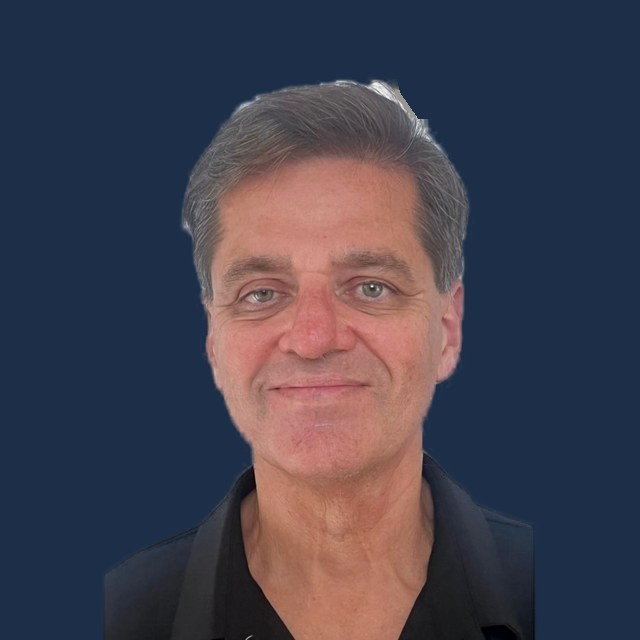
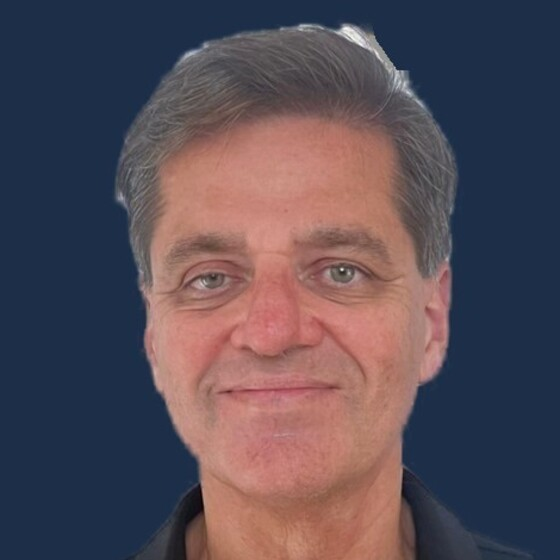
Closer, larger headshot
Claude-Session: https://claude.ai/code/session_015buZBYE2VfpAMGZBf1rHnA

diff --git a/index.html b/index.html
@@ -17,8 +17,8 @@ header{position:sticky;top:0;z-index:5;background:rgba(11,22,38,.88);backdrop-fi
 header .wrap{display:flex;align-items:center;gap:22px;height:60px;overflow-x:auto;white-space:nowrap}
 header b{font:600 18px Fraunces,Georgia,serif;color:var(--white);margin-right:auto;letter-spacing:.01em}
 header a{text-decoration:none;color:var(--slate);font-size:15px;font-weight:500}header a:hover{color:var(--white)}
-.hero{display:grid;grid-template-columns:260px 1fr;gap:48px;align-items:center;padding:72px 0 56px}
-.hero img{width:260px;height:260px;border-radius:50%;object-fit:cover;border:3px solid var(--line);box-shadow:0 0 0 8px rgba(148,163,184,.06),0 20px 50px rgba(0,0,0,.45);filter:saturate(.85)}
+.hero{display:grid;grid-template-columns:300px 1fr;gap:48px;align-items:center;padding:72px 0 56px}
+.hero img{width:300px;height:300px;border-radius:50%;object-fit:cover;border:3px solid var(--line);box-shadow:0 0 0 8px rgba(148,163,184,.06),0 20px 50px rgba(0,0,0,.45);filter:saturate(.85)}
 .eyebrow{font-size:13px;font-weight:600;letter-spacing:.16em;text-transform:uppercase;color:var(--accent);margin:0 0 10px}
 h1{font:600 clamp(40px,6vw,64px)/1.05 Fraunces,Georgia,serif;color:var(--white);margin:0 0 14px}
 .lede{font-size:20px;color:var(--slate-hi);margin:0 0 26px;max-width:600px}
